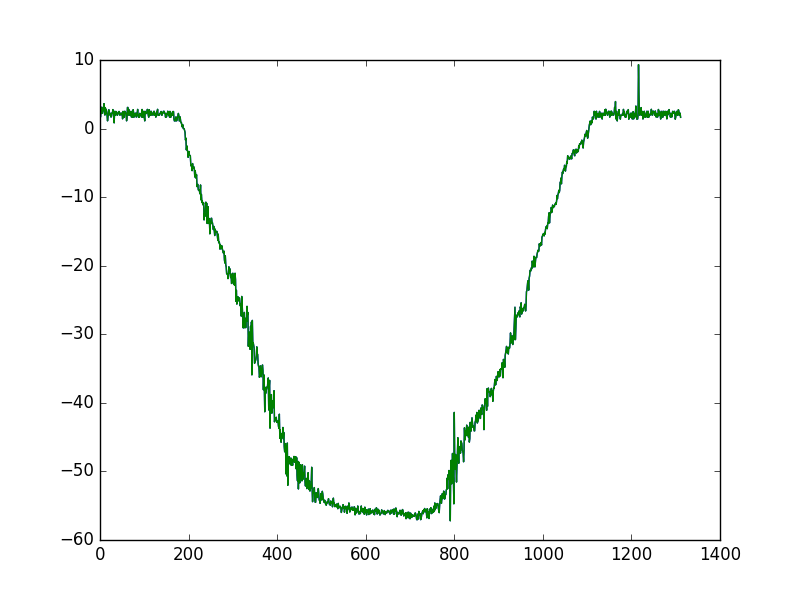
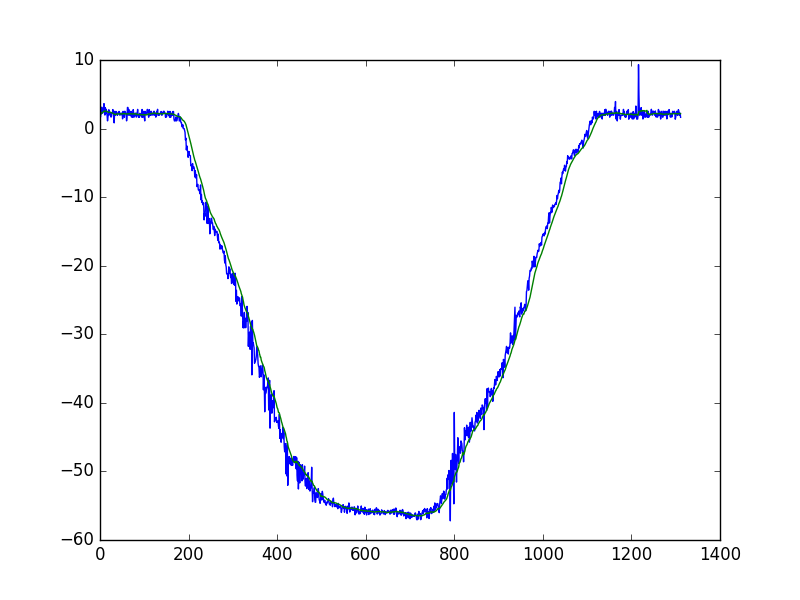
Update updates in previous lectures

diff --git a/Lecture5/exercise_imu/imu_exercise_noise.py b/Lecture5/exercise_imu/imu_exercise_noise.py
@@ -131,8 +131,8 @@ f.close()
 # show the plot
 if showPlot == True:
 	plt.plot(plotDataPitch)
-	plt.plot(plotDataRoll)
+#	plt.plot(plotDataRoll)
 	plt.plot(plotDataPitchAvg)
-	plt.plot(plotDataRollAvg)
+#	plt.plot(plotDataRollAvg)
 	plt.savefig('imu_exercise_plot.png')
 	plt.show()
